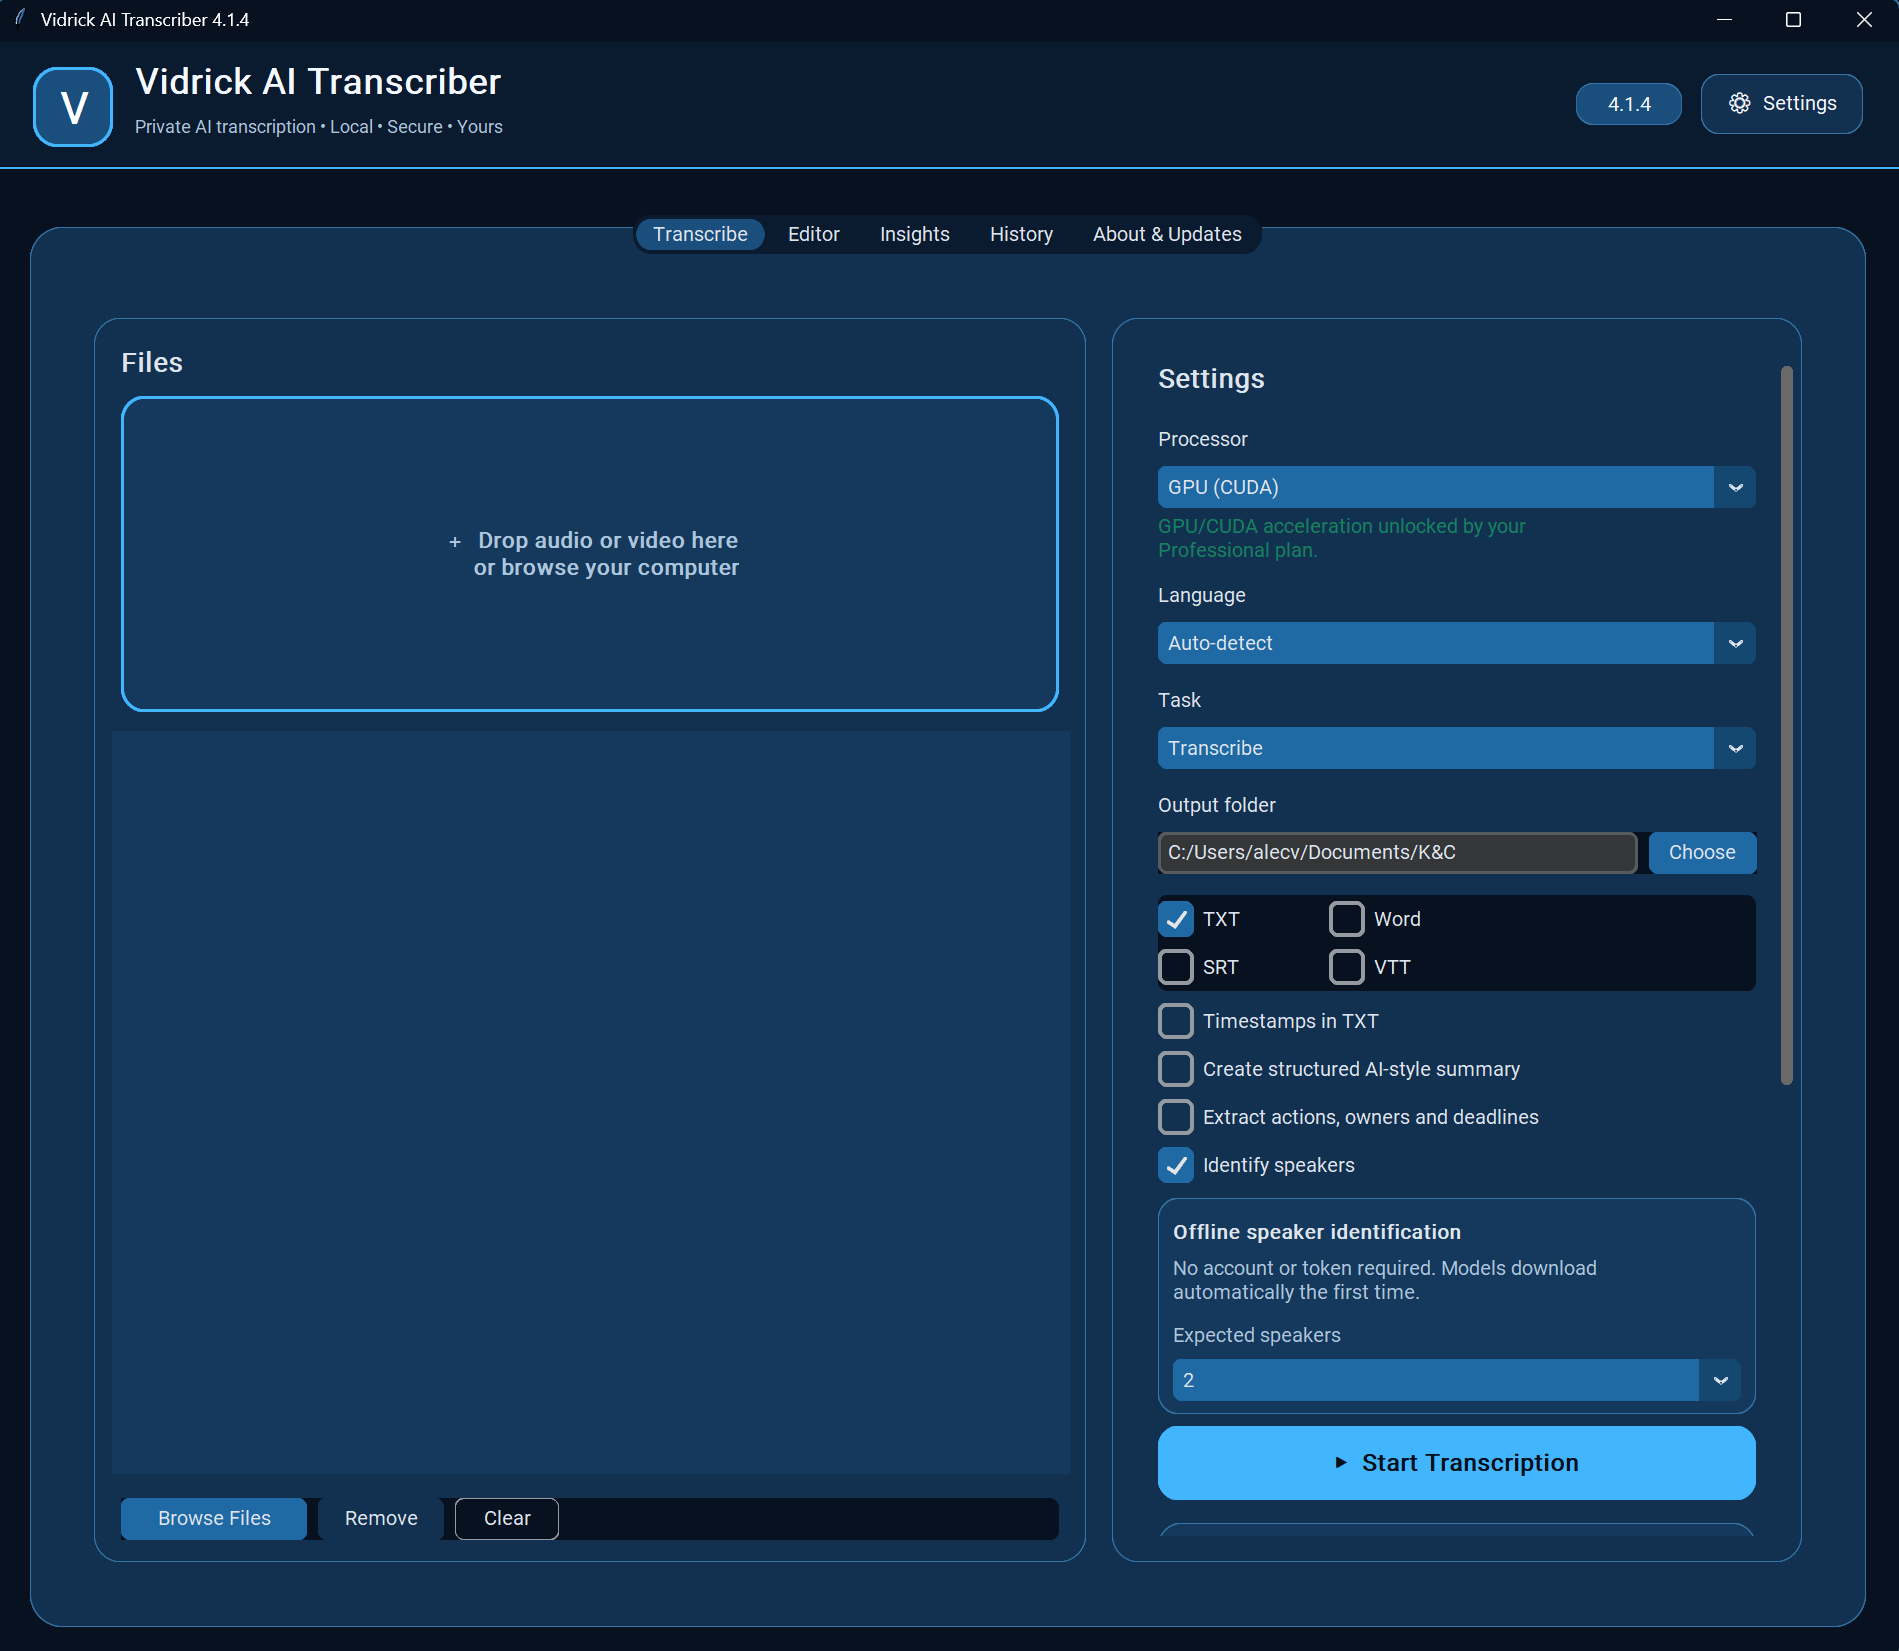
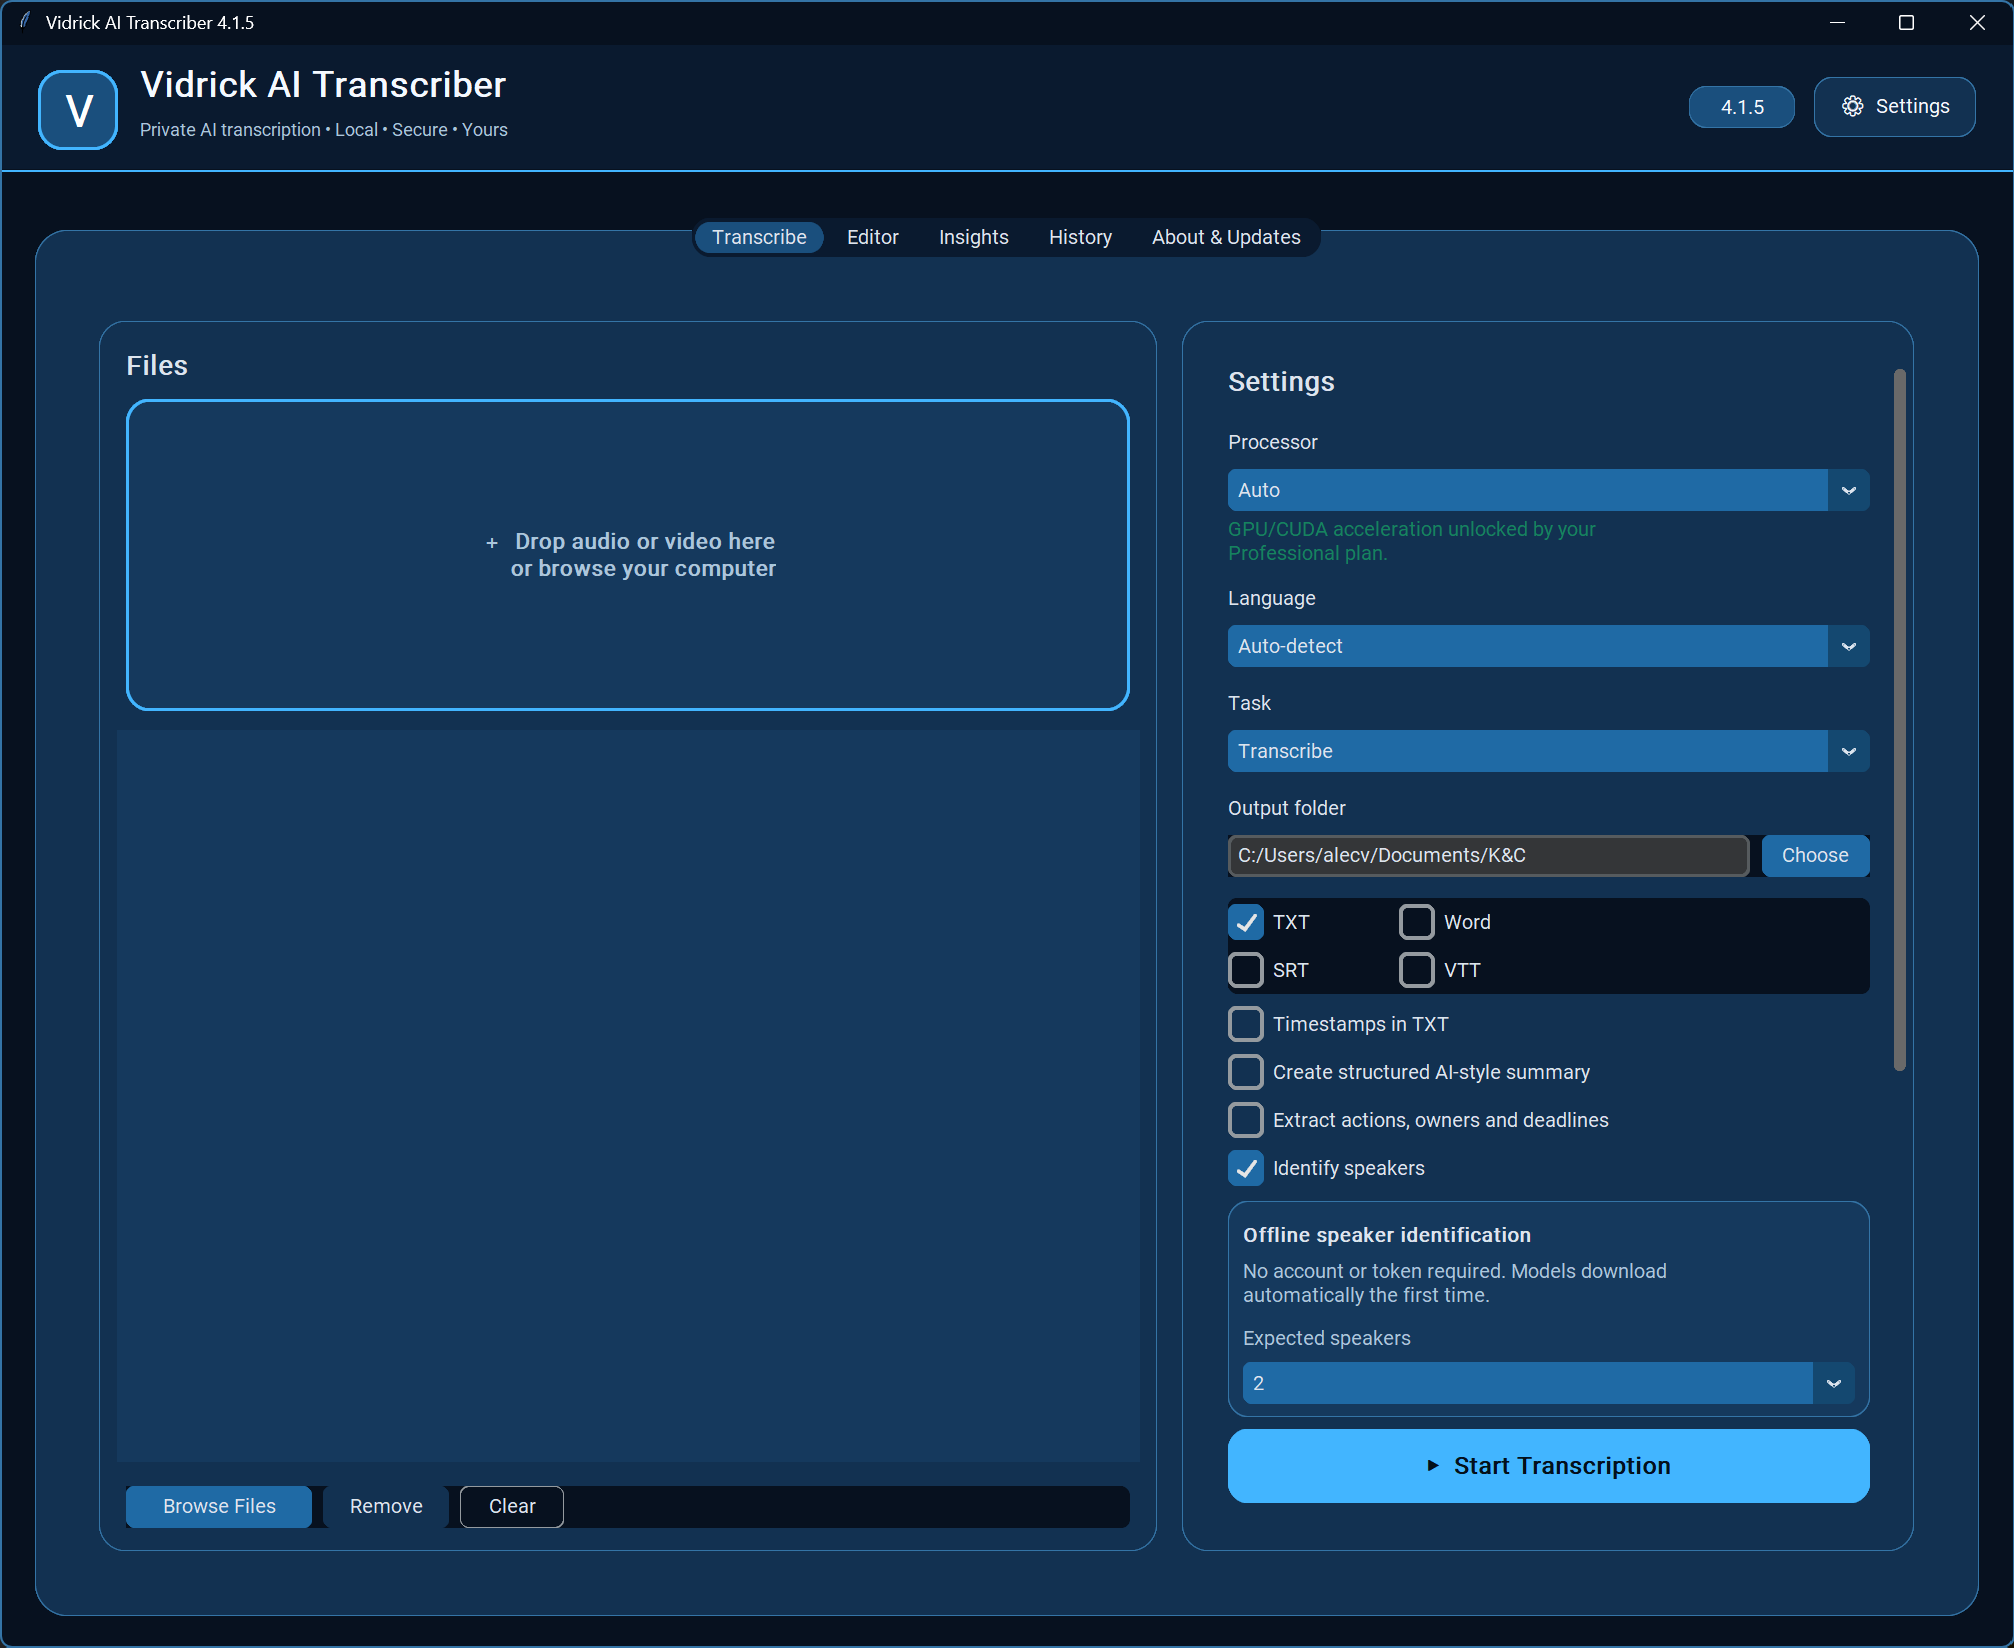
Update website for Vidrick AI Transcriber 4.1.5

diff --git a/index.html b/index.html
@@ -13,20 +13,20 @@
   <meta charset="utf-8">
   <meta name="viewport" content="width=device-width,initial-scale=1">
   <title>Vidrick AI Transcriber | Private Offline AI Transcription for Windows</title>
-  <meta name="description" content="Private offline AI transcription software for Windows. Transcribe audio and video locally, identify speakers, use NVIDIA GPU acceleration, and keep recordings on your PC.">
+  <meta name="description" content="Private offline AI transcription software for Windows with 57 selectable languages plus Auto-detect, speaker identification, NVIDIA GPU acceleration, and local processing.">
   <link rel="preconnect" href="https://fonts.googleapis.com">
   <link rel="preconnect" href="https://fonts.gstatic.com" crossorigin>
   <link href="https://fonts.googleapis.com/css2?family=Inter:wght@400;500;600;700;800&display=swap" rel="stylesheet">
   <link rel="stylesheet" href="styles.css">
   <meta name="robots" content="index, follow, max-image-preview:large">
   <meta property="og:title" content="Vidrick AI Transcriber | Private Offline AI Transcription for Windows">
-  <meta property="og:description" content="Transcribe audio and video locally on Windows with speaker identification and NVIDIA GPU acceleration. Your recordings stay on your computer.">
+  <meta property="og:description" content="Transcribe audio and video locally on Windows with 57 selectable languages plus Auto-detect, speaker identification, and NVIDIA GPU acceleration.">
   <meta property="og:type" content="website">
   <meta property="og:url" content="https://vidrickai.com/">
   <meta property="og:site_name" content="Vidrick AI">
   <meta name="twitter:card" content="summary_large_image">
   <meta name="twitter:title" content="Vidrick AI Transcriber | Private Offline AI Transcription for Windows">
-  <meta name="twitter:description" content="Local AI transcription for Windows with speaker identification and NVIDIA GPU acceleration. Your recordings stay on your PC.">
+  <meta name="twitter:description" content="Local AI transcription for Windows with 57 selectable languages plus Auto-detect, speaker identification, and NVIDIA GPU acceleration.">
   <link rel="canonical" href="https://vidrickai.com/">
   <script type="application/ld+json">
   {
@@ -39,6 +39,7 @@
     "description": "Private offline AI transcription software for Windows that processes supported audio and video locally and includes speaker identification.",
     "featureList": [
       "Offline local AI transcription",
+      "57 selectable transcription languages plus Auto-detect",
       "Audio and video transcription",
       "Speaker identification",
       "NVIDIA GPU acceleration",
@@ -107,6 +108,8 @@
         <p>Choose your file, language, output format, and speaker count, then let Vidrick process it locally. Professional users can use compatible NVIDIA GPUs for dramatically faster transcription.</p>
         <ul class="feature-list">
           <li>Audio and video support</li>
+          <li>57 selectable languages plus Auto-detect</li>
+          <li>Translate supported speech to English</li>
           <li>Automatic offline speaker diarization</li>
           <li>CPU processing on Personal · GPU/CUDA on Professional</li>
           <li>Progress tracking and estimated completion time</li>
@@ -244,7 +247,25 @@ Okay.</pre>
       </div>
     </section>
 
-    <section id="pricing" class="pricing-section shell">
+    
+    <section class="feature-section shell">
+      <div class="section-copy reveal">
+        <div class="eyebrow">Multilingual transcription</div>
+        <h2>57 selectable languages plus Auto-detect.</h2>
+        <p>Vidrick AI Transcriber 4.1.5 expands the language selector to 57 named languages plus Auto-detect. Choose the recording language directly, or let Vidrick detect it automatically.</p>
+        <ul class="feature-list">
+          <li>Includes English, Spanish, French, German, Portuguese, Arabic, Chinese, Hindi, Japanese, Korean, Russian, Ukrainian, Vietnamese and more</li>
+          <li>Translate to English remains available</li>
+          <li>Language selection stays inside the same local transcription workflow</li>
+        </ul>
+        <p><a href="multilingual-transcription.html">See multilingual transcription details →</a></p>
+      </div>
+      <div class="screenshot-frame reveal">
+        <img src="assets/transcribe.png" alt="Vidrick AI Transcriber 4.1.5 language and transcription settings">
+      </div>
+    </section>
+
+<section id="pricing" class="pricing-section shell">
       <div class="section-heading reveal">
         <div class="eyebrow">Pricing</div>
         <h2>Private transcription without paying by the minute.</h2>

diff --git a/multilingual-transcription.html b/multilingual-transcription.html
@@ -1,0 +1,60 @@
+<!doctype html>
+<html lang="en">
+<head>
+  <meta charset="utf-8">
+  <meta name="viewport" content="width=device-width,initial-scale=1">
+  <title>Multilingual Offline AI Transcription for Windows | Vidrick AI</title>
+  <meta name="description" content="Vidrick AI Transcriber offers 57 selectable transcription languages plus Auto-detect on Windows, with local processing, speaker identification, and Translate to English.">
+  <meta name="robots" content="index, follow, max-image-preview:large">
+  <link rel="canonical" href="https://vidrickai.com/multilingual-transcription.html">
+  <script async src="https://www.googletagmanager.com/gtag/js?id=G-VHGM2Q6WC8"></script>
+  <script>
+    window.dataLayer = window.dataLayer || [];
+    function gtag(){dataLayer.push(arguments);}
+    gtag('js', new Date());
+    gtag('config', 'G-VHGM2Q6WC8');
+  </script>
+  <style>
+    body{margin:0;background:#061426;color:#eaf4ff;font-family:Arial,Helvetica,sans-serif;line-height:1.65}
+    main{max-width:900px;margin:0 auto;padding:64px 24px 90px}a{color:#48b9ff}
+    .badge{display:inline-block;border:1px solid #2785bc;border-radius:999px;padding:6px 12px;color:#9edaff}
+    h1{font-size:44px;line-height:1.12;margin:18px 0}h2{margin-top:42px;color:#fff}
+    .card{background:#12395b;border:1px solid #2877a8;border-radius:18px;padding:24px;margin:22px 0}
+    .cta{display:inline-block;background:#43b6f7;color:#061426;text-decoration:none;font-weight:bold;padding:13px 20px;border-radius:10px;margin-top:12px}
+    small{color:#a9c9e5}
+  </style>
+</head>
+<body>
+<main>
+  <a href="/">← Vidrick AI Transcriber</a><br>
+  <span class="badge">Windows • Local AI • 4.1.5</span>
+  <h1>Multilingual Offline AI Transcription</h1>
+  <p>Vidrick AI Transcriber 4.1.5 gives Windows users 57 named language choices plus Auto-detect inside the same local transcription workflow.</p>
+
+  <div class="card">
+    <h2>57 named language choices</h2>
+    <p>The selector includes major languages such as English, Spanish, French, German, Italian, Portuguese, Arabic, Chinese, Hindi, Japanese, Korean, Russian, Ukrainian and Vietnamese, along with many additional choices.</p>
+  </div>
+
+  <div class="card">
+    <h2>Auto-detect</h2>
+    <p>Leave the language on Auto-detect when you want Vidrick to determine the recording language automatically.</p>
+  </div>
+
+  <div class="card">
+    <h2>Translate to English</h2>
+    <p>Translate to English remains available alongside normal transcription for multilingual recordings.</p>
+  </div>
+
+  <div class="card">
+    <h2>Still local</h2>
+    <p>The expanded language selector does not change Vidrick's local-first design. Transcription continues to run on the user's Windows PC.</p>
+  </div>
+
+  <h2>Try Vidrick AI Transcriber</h2>
+  <p>See plans, screenshots and the rest of Vidrick's offline transcription features.</p>
+  <a class="cta" href="/#pricing">View Vidrick & Pricing</a>
+  <p><small>Language accuracy varies by recording quality, language, accent, background noise and selected model/settings.</small></p>
+</main>
+</body>
+</html>
